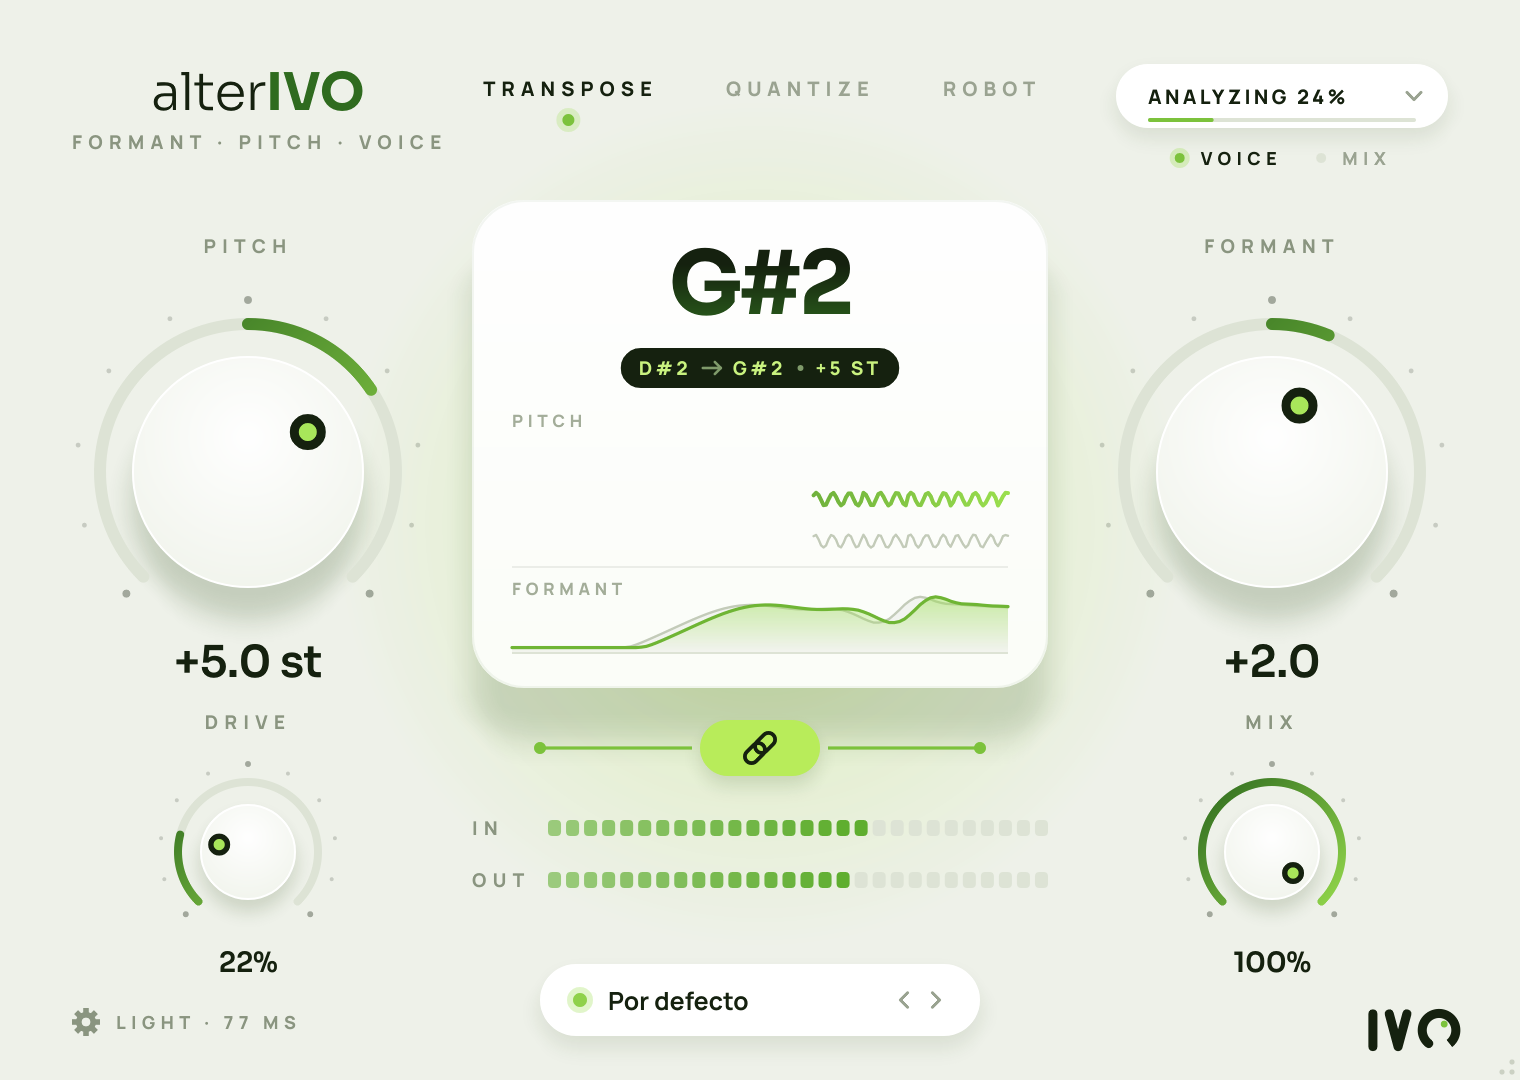
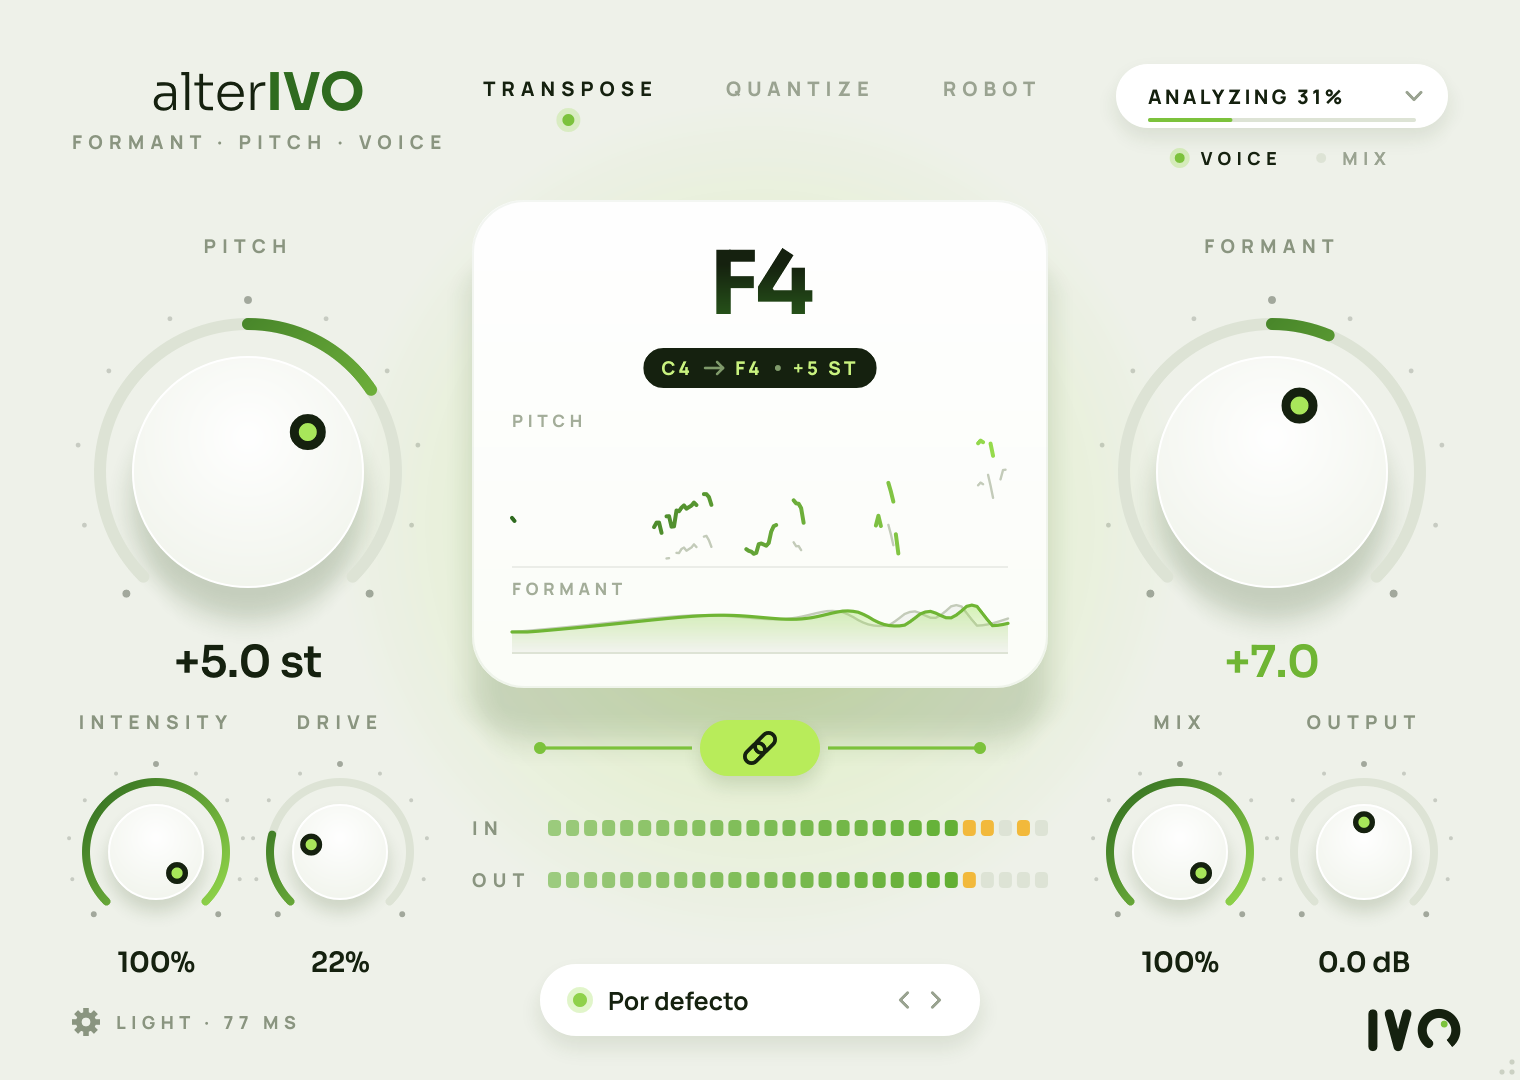
INTENSITY (cantidad de efecto), OUTPUT y Link en el motor (vale para automatización, MIDI y presets)
Claude-Session: https://claude.ai/code/session_019pGoiKBtdYvcjfagAEK9Vp

diff --git a/Source/PluginEditor.cpp b/Source/PluginEditor.cpp
@@ -67,7 +67,9 @@ constexpr float kEnd   = juce::MathConstants<float>::pi * 2.75f;
 constexpr int kW = AlterIvoEditor::kBaseW, kH = AlterIvoEditor::kBaseH;
 
 // Posiciones del diseño (760 x 540)
-const juce::Point<int> kPitchC   { 124, 236 }, kFormantC { 636, 236 }, kDriveC { 124, 426 }, kMixC { 636, 426 };
+// Fila inferior: INTENSITY y DRIVE bajo Pitch, MIX y OUTPUT bajo Formant
+const juce::Point<int> kPitchC   { 124, 236 }, kFormantC { 636, 236 };
+const juce::Point<int> kIntensityC { 78, 426 }, kDriveC { 170, 426 }, kMixC { 590, 426 }, kOutputC { 682, 426 };
 constexpr int kBigBox = 180, kSmallBox = 96;
 constexpr float kBigR = 58.0f, kSmallR = 24.0f;
 
@@ -706,29 +708,36 @@ AlterIvoView::AlterIvoView (AlterIvoProcessor& p) : proc (p)
 
     setupKnob (pitch, true);
     setupKnob (formant, true);
+    setupKnob (intensity, false);
     setupKnob (drive, false);
     setupKnob (mix, false);
+    setupKnob (output, false);
 
     pitchAtt   = std::make_unique<SliderAttachment> (proc.apvts, "pitch", pitch);
     formantAtt = std::make_unique<SliderAttachment> (proc.apvts, "formant", formant);
     driveAtt   = std::make_unique<SliderAttachment> (proc.apvts, "drive", drive);
     mixAtt     = std::make_unique<SliderAttachment> (proc.apvts, "mix", mix);
+    intensityAtt = std::make_unique<SliderAttachment> (proc.apvts, "intensity", intensity);
+    outputAtt    = std::make_unique<SliderAttachment> (proc.apvts, "output", output);
+    intensity.setDoubleClickReturnValue (true, 100.0);
+    output.setDoubleClickReturnValue (true, 0.0);
 
     pitch.setDoubleClickReturnValue (true, 0.0);
     formant.setDoubleClickReturnValue (true, 0.0);
     drive.setDoubleClickReturnValue (true, 0.0);
     mix.setDoubleClickReturnValue (true, 100.0);
 
-    lastPitch = pitch.getValue();
-    lastFormant = formant.getValue();
     auto repaintValue = [this] (juce::Point<int> c, bool big)
     {
         repaint (big ? centredRect (c.x, c.y + 78, 180, 34) : centredRect (c.x, c.y + 44, 120, 24));
     };
-    pitch.onValueChange   = [this, repaintValue] { linkedMove (pitch, formant, lastPitch, lastFormant); repaintValue (kPitchC, true); };
-    formant.onValueChange = [this, repaintValue] { linkedMove (formant, pitch, lastFormant, lastPitch); repaintValue (kFormantC, true); };
-    drive.onValueChange   = [repaintValue] { repaintValue (kDriveC, false); };
-    mix.onValueChange     = [repaintValue] { repaintValue (kMixC, false); };
+    // Con Link, el valor de Formant muestra el total (su ajuste + lo que mueve Pitch)
+    pitch.onValueChange     = [this, repaintValue] { repaintValue (kPitchC, true); repaintValue (kFormantC, true); };
+    formant.onValueChange   = [repaintValue] { repaintValue (kFormantC, true); };
+    drive.onValueChange     = [repaintValue] { repaintValue (kDriveC, false); };
+    mix.onValueChange       = [repaintValue] { repaintValue (kMixC, false); };
+    intensity.onValueChange = [repaintValue] { repaintValue (kIntensityC, false); };
+    output.onValueChange    = [repaintValue] { repaintValue (kOutputC, false); };
 
     modeSelector.onChange = [this] (int i) { setMode (i); };
     addAndMakeVisible (modeSelector);
@@ -739,7 +748,7 @@ AlterIvoView::AlterIvoView (AlterIvoProcessor& p) : proc (p)
     keyBox.onClick = [this] { showKeyMenu(); };
     addAndMakeVisible (keyBox);
 
-    linkButton.onStateChange = [this] { repaint (260, 364, 240, 20); };
+    linkButton.onStateChange = [this] { repaint (260, 364, 240, 20); repaint (centredRect (kFormantC.x, kFormantC.y + 78, 180, 34)); };
     addAndMakeVisible (linkButton);
     linkAtt = std::make_unique<ButtonAttachment> (proc.apvts, "link", linkButton);
 
@@ -778,21 +787,6 @@ void AlterIvoView::setupKnob (juce::Slider& s, bool big)
     s.setMouseCursor (juce::MouseCursor::UpDownResizeCursor);
     s.setPaintingIsUnclipped (true);
     addAndMakeVisible (s);
-}
-
-// Link: al mover un mando con el ratón, el otro se mueve lo mismo
-void AlterIvoView::linkedMove (juce::Slider& moved, juce::Slider& other, double& lastMoved, double& lastOther)
-{
-    const double now = moved.getValue();
-    if (! linking && linkButton.getToggleState() && moved.isMouseButtonDown())
-    {
-        linking = true;
-        other.setValue (juce::jlimit (other.getMinimum(), other.getMaximum(), other.getValue() + (now - lastMoved)),
-                        juce::sendNotificationSync);
-        linking = false;
-    }
-    lastMoved = now;
-    lastOther = other.getValue();
 }
 
 void AlterIvoView::setMode (int index)
@@ -900,8 +894,6 @@ void AlterIvoView::showSettingsMenu()
 void AlterIvoView::loadPreset (int index)
 {
     proc.setCurrentProgram (index);
-    lastPitch = pitch.getValue();
-    lastFormant = formant.getValue();
     timerCallback();
 }
 
@@ -1018,9 +1010,18 @@ void AlterIvoView::paint (juce::Graphics& g)
         g.drawText (s.getTextFromValue (s.getValue()), r, juce::Justification::centred, false);
     };
     value (pitch, kPitchC, true);
-    value (formant, kFormantC, true);
     value (drive, kDriveC, false);
     value (mix, kMixC, false);
+    value (intensity, kIntensityC, false);
+    value (output, kOutputC, false);
+    {
+        // Formant: con Link se muestra el total en verde
+        const bool linked = linkButton.getToggleState();
+        const double total = juce::jlimit (-12.0, 12.0, formant.getValue() + (linked ? pitch.getValue() : 0.0));
+        g.setColour (linked ? theme::limeDeep : theme::ink);
+        g.setFont (font (*fonts, Face::soraSemi, 22.0f, -0.01f));
+        g.drawText (formant.getTextFromValue (total), centredRect (kFormantC.x, kFormantC.y + 80, 180, 30), juce::Justification::centred, false);
+    }
 
     // ---- Líneas del Link
     const bool on = linkButton.getToggleState();
@@ -1070,7 +1071,7 @@ void AlterIvoView::paintBackground (juce::Graphics& g)
     softShadow (g, roundRect (kLink.toFloat(), 14.0f), 0.14f, 12, 5);
     for (auto c : { kPitchC, kFormantC })
         softShadow (g, circle (c.toFloat(), kBigR), 0.20f, 30, 16);
-    for (auto c : { kDriveC, kMixC })
+    for (auto c : { kDriveC, kMixC, kIntensityC, kOutputC })
         softShadow (g, circle (c.toFloat(), kSmallR), 0.16f, 12, 6);
 
     // Tarjeta de la pantalla
@@ -1088,6 +1089,8 @@ void AlterIvoView::paintBackground (juce::Graphics& g)
     g.drawText ("FORMANT", centredRect (kFormantC.x, 116, 160, 14), juce::Justification::centred, false);
     g.drawText ("DRIVE",   centredRect (kDriveC.x, kDriveC.y - 72, 120, 14), juce::Justification::centred, false);
     g.drawText ("MIX",     centredRect (kMixC.x, kMixC.y - 72, 120, 14), juce::Justification::centred, false);
+    g.drawText ("INTENSITY", centredRect (kIntensityC.x, kIntensityC.y - 72, 120, 14), juce::Justification::centred, false);
+    g.drawText ("OUTPUT",  centredRect (kOutputC.x, kOutputC.y - 72, 120, 14), juce::Justification::centred, false);
 
     // Firma IVO abajo a la derecha (las letras ocupan del 13.45 % al 86.55 % del ancho del SVG)
     if (logoMark != nullptr)
@@ -1104,6 +1107,8 @@ void AlterIvoView::resized()
     formant.setBounds (box (kFormantC, kBigBox));
     drive.setBounds (box (kDriveC, kSmallBox));
     mix.setBounds (box (kMixC, kSmallBox));
+    intensity.setBounds (box (kIntensityC, kSmallBox));
+    output.setBounds (box (kOutputC, kSmallBox));
     modeSelector.setBounds (kModes);
     sourceSelector.setBounds (kSource);
     settingsButton.setBounds (kSettings);

diff --git a/Source/PluginProcessor.cpp b/Source/PluginProcessor.cpp
@@ -28,8 +28,8 @@ const FactoryPreset kPresets[] = {
     { "Octava arriba",      12.0f,  2.0f,  0.0f,  40.0f, 0, false },
     { "Voz más grave",      -2.0f, -2.5f,  0.0f, 100.0f, 0, false },
     { "Voz más aguda",       2.0f,  2.0f,  0.0f, 100.0f, 0, false },
-    { "Ardilla",             7.0f,  7.0f,  0.0f, 100.0f, 0, true  },
-    { "Gigante",            -7.0f, -7.0f, 20.0f, 100.0f, 0, true  },
+    { "Ardilla",             7.0f,  0.0f,  0.0f, 100.0f, 0, true  },
+    { "Gigante",            -7.0f,  0.0f, 20.0f, 100.0f, 0, true  },
     { "Robot",               0.0f,  0.0f, 25.0f, 100.0f, 2, false },
     { "Robot grave",       -12.0f, -3.0f, 35.0f, 100.0f, 2, false },
     { "Radio rota",          0.0f,  4.0f, 85.0f, 100.0f, 1, false },
@@ -75,6 +75,18 @@ juce::AudioProcessorValueTreeState::ParameterLayout AlterIvoProcessor::createLay
     params.push_back (std::make_unique<AudioParameterChoice> (
         ParameterID { "source", 2 }, "Source", StringArray { "Voice", "Mix" }, 0));
 
+    // Intensidad: cuánto del efecto (tono y formantes) se aplica, sin mezclar la señal seca
+    params.push_back (std::make_unique<AudioParameterFloat> (
+        ParameterID { "intensity", 3 }, "Intensity", NormalisableRange<float> (0.0f, 100.0f, 0.1f), 100.0f,
+        AudioParameterFloatAttributes().withLabel ("%").withStringFromValueFunction (
+            [] (float v, int) { return String (v, 0) + "%"; })));
+
+    // Salida: ajuste final de nivel (el nivel igualado ya mantiene el volumen con 0 dB)
+    params.push_back (std::make_unique<AudioParameterFloat> (
+        ParameterID { "output", 3 }, "Output", NormalisableRange<float> (-12.0f, 12.0f, 0.1f), 0.0f,
+        AudioParameterFloatAttributes().withLabel ("dB").withStringFromValueFunction (
+            [] (float v, int) { return signedValue (v, 1, " dB"); })));
+
     return { params.begin(), params.end() };
 }
 
@@ -93,6 +105,8 @@ AlterIvoProcessor::AlterIvoProcessor()
     pKey     = apvts.getRawParameterValue ("key");
     pScale   = apvts.getRawParameterValue ("scale");
     pSource  = apvts.getRawParameterValue ("source");
+    pIntensity = apvts.getRawParameterValue ("intensity");
+    pOutput    = apvts.getRawParameterValue ("output");
 }
 
 bool AlterIvoProcessor::isBusesLayoutSupported (const BusesLayout& layouts) const
@@ -150,6 +164,8 @@ void AlterIvoProcessor::prepareToPlay (double sampleRate, int samplesPerBlock)
     driveGain.reset (sampleRate, 0.03);
     driveGain.setCurrentAndTargetValue (0.0f);
     driveCurrent = pDrive->load() / 100.0f;
+    outputGain.reset (sampleRate, 0.05);
+    outputGain.setCurrentAndTargetValue (juce::Decibels::decibelsToGain (pOutput->load()));
     driveStepPerSample = (float) (1.0 / (0.05 * sampleRate * 4.0));   // recorrido completo en 50 ms
     keyResetRequest.store (true);
 
@@ -210,8 +226,14 @@ void AlterIvoProcessor::processBlock (juce::AudioBuffer<float>& buffer, juce::Mi
     const int keyRoot = juce::jlimit (0, 11, (int) std::lround (pKey->load()));
     const auto scale = static_cast<alterivo::Scale> (juce::jlimit (0, 2, (int) std::lround (pScale->load())));
     const bool voiceSource = pSource->load() < 0.5f;
+    // Link: los formantes siguen al tono (en el motor, así vale para ratón, automatización,
+    // MIDI y presets). Formant queda como ajuste adicional. Intensity escala todo el efecto.
+    const float intensity = pIntensity->load() / 100.0f;
+    const float pitchSemis = heldNote.load() >= 0 ? (float) (heldNote.load() - 60) : pPitch->load();
+    const float formantSemis = juce::jlimit (-12.0f, 12.0f, pFormant->load() + (pLink->load() > 0.5f ? pitchSemis : 0.0f));
     engine.setPitchSemitones (pPitch->load());
-    engine.setFormantSemitones (pFormant->load());
+    engine.setFormantSemitones (formantSemis * intensity);
+    engine.setIntensity (intensity);
     engine.setMode (engineMode);
     engine.setMidiNote (heldNote.load());
     engine.setScale (keyRoot, scale);
@@ -224,10 +246,12 @@ void AlterIvoProcessor::processBlock (juce::AudioBuffer<float>& buffer, juce::Mi
     mixSmoothed.setTargetValue (pMix->load() / 100.0f);
 
     // Con Pitch y Formant a 0 (Transpose, sin MIDI) la voz pasa intacta y en estéreo
-    const bool engineNeeded = engineMode != alterivo::Mode::Transpose
-                              || std::abs (pPitch->load()) > 0.005f
-                              || std::abs (pFormant->load()) > 0.005f
-                              || heldNote.load() >= 0;
+    const bool engineNeeded = intensity > 0.0005f
+                              && (engineMode != alterivo::Mode::Transpose
+                                  || std::abs (pPitch->load()) > 0.005f
+                                  || std::abs (formantSemis) > 0.005f
+                                  || heldNote.load() >= 0);
+    outputGain.setTargetValue (juce::Decibels::decibelsToGain (pOutput->load()));
     engineGain.setTargetValue (engineNeeded ? 1.0f : 0.0f);
     // Sin efecto audible el motor sólo analiza (pantalla y tonalidad): ahorra CPU
     engine.setActive (engineNeeded || engineGain.isSmoothing() || engineGain.getCurrentValue() > 0.0f);
@@ -358,6 +382,7 @@ void AlterIvoProcessor::processChunk (juce::AudioBuffer<float>& buffer, int star
     for (int i = 0; i < len; ++i)
     {
         const float mix = mixSmoothed.getNextValue();
+        const float og = outputGain.getNextValue();
         const float dg = driveOn ? driveGain.getNextValue() : 0.0f;
 
         for (int ch = 0; ch < numCh; ++ch)
@@ -368,7 +393,7 @@ void AlterIvoProcessor::processChunk (juce::AudioBuffer<float>& buffer, int star
             if (driveOn)
                 wet = clean + dg * (dcBlockers[(size_t) ch].process (wetBuffer.getSample (ch, i)) - clean);
 
-            buffer.setSample (ch, start + i, dry + mix * (wet - dry));
+            buffer.setSample (ch, start + i, (dry + mix * (wet - dry)) * og);
         }
     }
 }
@@ -509,6 +534,8 @@ void AlterIvoProcessor::setCurrentProgram (int index)
     set ("mix", p.mix);
     set ("mode", (float) p.mode);
     set ("link", p.link ? 1.0f : 0.0f);
+    set ("intensity", 100.0f);
+    set ("output", 0.0f);
     apvts.state.setProperty ("preset", index, nullptr);
 }
 

diff --git a/Source/PitchEngine.h b/Source/PitchEngine.h
@@ -306,6 +306,8 @@ public:
     void setFormantSemitones (float s) noexcept { formantSemis = s; }
     void setMode (Mode m) noexcept              { mode = m; }
     void setMidiNote (int note) noexcept        { midiNote = note; }   // -1 = ninguna
+    // Intensidad 0..1: fracción del cambio de tono que se aplica (en semitonos)
+    void setIntensity (float i) noexcept        { intensity = std::clamp (i, 0.0f, 1.0f); }
     // La escala nueva entra en la siguiente nota (o a los 0,5 s), no a mitad de una
     void setScale (uint16_t m) noexcept         { if (m != pendingAllowed) { pendingAllowed = m; scalePendingAge = 0; } }
     // Síntesis activa: si no hace falta (todo a 0 o modo MIX) sólo se analiza
@@ -510,7 +512,7 @@ private:
             const float hz = m.voiced ? f0At (m.pos) : 0.0f;
             if (m.voiced && hz > 0.0f)
             {
-                ratio = std::clamp (targetRatio (hz), 0.25, 4.0);
+                ratio = std::clamp (std::pow (targetRatio (hz), (double) intensity), 0.25, 4.0);
                 advance = Pr / ratio;
             }
             outputHz.store (hz > 0.0f ? (float) (hz * ratio) : 0.0f, std::memory_order_relaxed);
@@ -694,7 +696,7 @@ private:
     float curF0 = 0.0f;
     int quantNote = -1;
 
-    float pitchSemis = 0.0f, formantSemis = 0.0f;
+    float pitchSemis = 0.0f, formantSemis = 0.0f, intensity = 1.0f;
     Mode mode = Mode::Transpose;
     int midiNote = -1;
     uint16_t allowed = 0xFFF, pendingAllowed = 0xFFF;
@@ -786,6 +788,7 @@ public:
     void setMode (Mode m) noexcept              { mode = m; }
     void setMidiNote (int note) noexcept        { midiNote = note; }
     void setScale (uint16_t m) noexcept         { allowed = m; }
+    void setIntensity (float i) noexcept        { intensity = std::clamp (i, 0.0f, 1.0f); }
 
     void process (const float* x, float* y) noexcept
     {
@@ -826,7 +829,7 @@ private:
     {
         if (mode != Mode::Transpose || (hopCount++ & 3) == 0)
             detectPitch();
-        const double ratio = std::clamp (currentRatio(), 0.25, 4.0);
+        const double ratio = std::clamp (std::pow (currentRatio(), (double) intensity), 0.25, 4.0);
         const double formant = std::clamp (std::pow (2.0, (double) formantSemis / 12.0), 0.25, 4.0);
 
         const float expect = (float) (2.0 * kPi * H / N);
@@ -1059,7 +1062,7 @@ private:
     YinDetector yin;
     int hopCount = 0, glitches = 0, unvoicedRun = 0, quantNote = -1;
     float curF0 = 0.0f;
-    float pitchSemis = 0.0f, formantSemis = 0.0f;
+    float pitchSemis = 0.0f, formantSemis = 0.0f, intensity = 1.0f;
     Mode mode = Mode::Transpose;
     int midiNote = -1;
     uint16_t allowed = 0xFFF;
@@ -1108,6 +1111,7 @@ public:
     void setMidiNote (int n) noexcept           { psola.setMidiNote (n); vocoder.setMidiNote (n); }
     void setScale (int root, Scale s) noexcept  { const auto m = scaleMask (root, s); psola.setScale (m); vocoder.setScale (m); }
     void setVoiceSource (bool voice) noexcept   { voiceSource = voice; }
+    void setIntensity (float i) noexcept        { psola.setIntensity (i); vocoder.setIntensity (i); }
     void setActive (bool on) noexcept           { active = on; }
     void setHighQuality (bool hq) noexcept      { psola.setHighQuality (hq); }
 

diff --git a/Source/PluginEditor.h b/Source/PluginEditor.h
@@ -168,7 +168,6 @@ private:
     void timerCallback() override;
     void setMode (int index);
     void setupKnob (juce::Slider&, bool big);
-    void linkedMove (juce::Slider& moved, juce::Slider& other, double& lastMoved, double& lastOther);
     void loadPreset (int index);
     void showPresetMenu();
     void showKeyMenu();
@@ -182,7 +181,7 @@ private:
     AlterIvoLookAndFeel lnf;
     juce::SharedResourcePointer<BrandFonts> fonts;
 
-    juce::Slider pitch, formant, drive, mix;
+    juce::Slider pitch, formant, drive, mix, intensity, output;
     ModeSelector modeSelector;
     ModeSelector sourceSelector { { "VOICE", "MIX" }, 9.0f, true };
     KeyBox keyBox;
@@ -197,11 +196,9 @@ private:
 
     using SliderAttachment = juce::AudioProcessorValueTreeState::SliderAttachment;
     using ButtonAttachment = juce::AudioProcessorValueTreeState::ButtonAttachment;
-    std::unique_ptr<SliderAttachment> pitchAtt, formantAtt, driveAtt, mixAtt;
+    std::unique_ptr<SliderAttachment> pitchAtt, formantAtt, driveAtt, mixAtt, intensityAtt, outputAtt;
     std::unique_ptr<ButtonAttachment> linkAtt;
 
-    double lastPitch = 0.0, lastFormant = 0.0;
-    bool linking = false;
     int currentMode = -1, shownPreset = -1, shownSource = -1, shownKey = -1;
     int keyMessageFrames = 0, seenSkin = -1;
     bool wasAnalyzing = false;

diff --git a/Source/PluginProcessor.h b/Source/PluginProcessor.h
@@ -127,6 +127,9 @@ private:
     std::atomic<float>* pKey     = nullptr;
     std::atomic<float>* pScale   = nullptr;
     std::atomic<float>* pSource  = nullptr;
+    std::atomic<float>* pIntensity = nullptr;
+    std::atomic<float>* pOutput    = nullptr;
+    juce::SmoothedValue<float> outputGain;
 
     // Nivel igualado
     float levelCoef = 0.0f, levelIn = 0.0f, levelOut = 0.0f;
